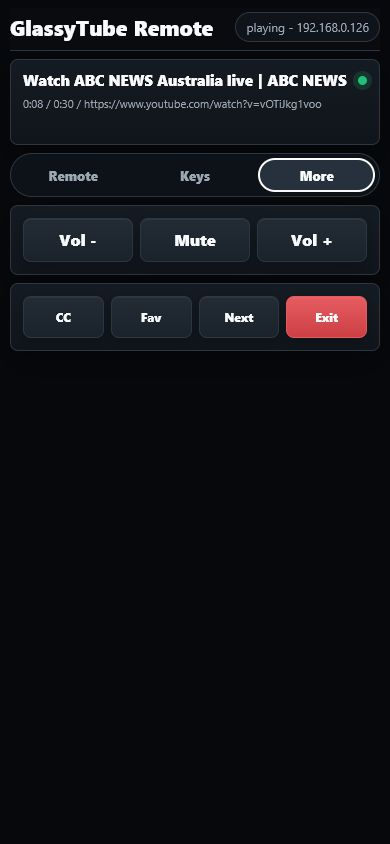
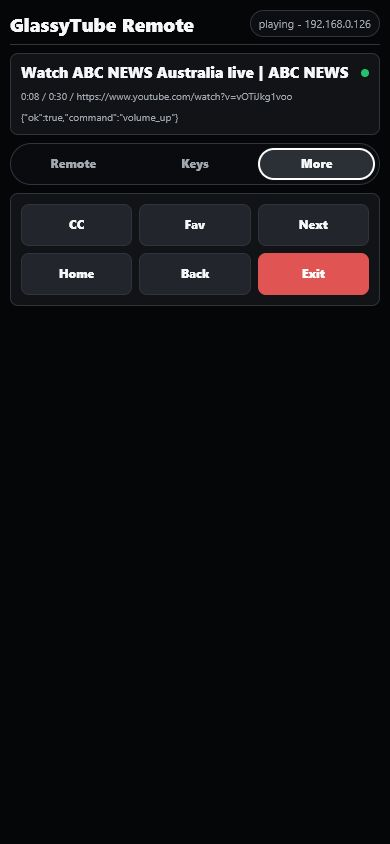
Polish GlassyTube remote controls

Changed region(s): [[0.0308, 0.0, 0.9846, 0.4313]]

diff --git a/remoteagent/src/main/java/com/glass/remoteagent/AgentServer.java b/remoteagent/src/main/java/com/glass/remoteagent/AgentServer.java
@@ -182,7 +182,19 @@ public class AgentServer extends NanoHTTPD {
             glassTube = forceInactiveIdle(glassTube);
         }
         return "{\"ok\":true,\"app\":\"GlassyTube Remote\",\"ip\":\"" + escapeJson(NetworkUtils.getWifiIp(context))
-                + "\",\"glasstube\":" + glassTube + "}";
+                + "\",\"volume\":" + volumeJson() + ",\"glasstube\":" + glassTube + "}";
+    }
+
+    private String volumeJson() {
+        AudioManager audioManager = (AudioManager) context.getSystemService(Context.AUDIO_SERVICE);
+        if (audioManager == null) {
+            return "{\"level\":0,\"max\":0,\"percent\":0,\"muted\":false}";
+        }
+        int level = audioManager.getStreamVolume(AudioManager.STREAM_MUSIC);
+        int max = audioManager.getStreamMaxVolume(AudioManager.STREAM_MUSIC);
+        int percent = max <= 0 ? 0 : Math.round((level * 100f) / max);
+        return "{\"level\":" + level + ",\"max\":" + max + ",\"percent\":" + percent
+                + ",\"muted\":" + (level == 0) + "}";
     }
 
     private String readGlassTubeLog() {
@@ -574,47 +586,61 @@ public class AgentServer extends NanoHTTPD {
     private String remotePage() {
         String token = RemoteSecurity.getToken(context);
         return "<!doctype html><html><head><meta name='viewport' content='width=device-width,initial-scale=1,viewport-fit=cover'>"
-                + "<title>GlassyTube Remote</title><style>"
-                + ":root{color-scheme:dark;--bg:#06080b;--panel:#11161c;--panel2:#1b222b;--line:#2d3742;--line2:#42505f;--text:#f8fafc;--muted:#9da8b5;--blue:#2f8cff;--green:#1fc178;--red:#de4d52;--shadow:0 12px 34px rgba(0,0,0,.34)}"
-                + "*{box-sizing:border-box;min-width:0}html,body{width:100%;height:100%;overflow:hidden}body{margin:0;background:#06080b;color:var(--text);font-family:-apple-system,BlinkMacSystemFont,Segoe UI,sans-serif;-webkit-tap-highlight-color:transparent}"
-                + "main{width:min(100%,460px);height:calc(var(--vh,1vh)*100);margin:0 auto;padding:max(8px,env(safe-area-inset-top)) max(10px,env(safe-area-inset-right)) max(10px,env(safe-area-inset-bottom)) max(10px,env(safe-area-inset-left));display:flex;flex-direction:column;gap:8px;overflow:hidden}.top{z-index:4;background:rgba(9,11,15,.96);backdrop-filter:blur(14px);padding:4px 0 8px;border-bottom:1px solid var(--line);flex:0 0 auto}"
-                + ".bar{display:flex;align-items:center;justify-content:space-between;gap:10px}.brand{font-size:21px;font-weight:850;letter-spacing:0}.pill{border:1px solid var(--line);background:#0f141a;color:var(--muted);border-radius:999px;padding:6px 10px;font-size:12px;white-space:nowrap;max-width:48%;overflow:hidden;text-overflow:ellipsis}"
-                + ".panel{background:linear-gradient(180deg,#151b22,#10151b);border:1px solid var(--line);border-radius:8px;padding:clamp(8px,1.55vh,12px);box-shadow:var(--shadow);flex:0 0 auto}.sectionTitle{display:none}.muted{color:var(--muted);font-size:13px}.toast{color:var(--muted);font-size:11px;min-height:14px;overflow:hidden;text-overflow:ellipsis;white-space:nowrap}"
-                + ".wake{display:none;text-align:left;padding:18px;margin-top:8px}.wakeTitle{font-size:clamp(22px,7vw,28px);font-weight:850;margin-bottom:8px}.wakeText{color:#dce4ee;line-height:1.35;margin-bottom:16px}.hibernating .wake{display:block}.hibernating .activeOnly{display:none!important}.hibernating main{justify-content:flex-start}"
-                + ".now{display:grid;grid-template-columns:1fr auto;gap:7px;align-items:center;min-height:70px}.title{font-size:clamp(14px,3.8vw,16px);font-weight:850;line-height:1.18;overflow:hidden;display:-webkit-box;-webkit-line-clamp:2;-webkit-box-orient:vertical}.meta{grid-column:1/-1;color:var(--muted);font-size:11px;white-space:nowrap;overflow:hidden;text-overflow:ellipsis}.liveDot{width:9px;height:9px;background:var(--green);border-radius:50%;box-shadow:0 0 0 5px rgba(31,193,120,.16)}"
-                + "button,textarea{width:100%;font:inherit;border-radius:8px;border:1px solid var(--line)}button{min-height:0;background:linear-gradient(180deg,#232b34,#1a222b);color:var(--text);font-weight:850;line-height:1.05;padding:6px;white-space:normal;box-shadow:inset 0 1px 0 rgba(255,255,255,.05),0 5px 14px rgba(0,0,0,.2)}button:active{transform:scale(.985);filter:brightness(1.16)}.primary{background:linear-gradient(180deg,#3d96ff,#237be5);border-color:#4096ff}.good{background:linear-gradient(180deg,#28c982,#18a967);border-color:#2bc77f}.danger{background:linear-gradient(180deg,#e75c61,#cb3f45);border-color:#e35a5f}"
-                + ".tabs{display:grid;grid-template-columns:repeat(3,1fr);gap:5px;background:#0d1218;border:1px solid var(--line);border-radius:999px;padding:4px;flex:0 0 auto}.tabs button{height:34px;font-size:13px;border-radius:999px;background:transparent;border-color:transparent;box-shadow:none;color:var(--muted)}.modeRemote .tabRemote,.modeKeyboard .tabKeyboard,.modeMore .tabMore{background:#26313d;border-color:#3b4653;color:var(--text);box-shadow:inset 0 1px 0 rgba(255,255,255,.06)}.screen{display:none;flex:1 1 auto;min-height:0}.modeRemote .remoteScreen,.modeKeyboard .keyboardScreen,.modeMore .moreScreen{display:flex;flex-direction:column;gap:8px}"
-                + ".remotePanel{flex:1 1 auto;display:flex;flex-direction:column;gap:8px;align-items:stretch}.remotePad{position:relative;display:grid;grid-template-columns:repeat(3,1fr);grid-template-rows:repeat(3,1fr);aspect-ratio:1/1;width:min(100%,52vh);max-height:calc(var(--vh,1vh)*48);align-self:center;background:radial-gradient(circle at 50% 42%,#26313d,#111820 68%);border:1px solid #34414e;border-radius:50%;padding:6.5%;box-shadow:inset 0 2px 24px rgba(255,255,255,.035),inset 0 -14px 34px rgba(0,0,0,.38),0 18px 42px rgba(0,0,0,.42)}.remotePad button{height:100%;border-radius:999px;background:transparent;border-color:transparent;box-shadow:none;font-size:clamp(22px,7vw,34px)}.remotePad button:active{background:rgba(255,255,255,.08)}.remotePad .blank{visibility:hidden}.select{background:linear-gradient(180deg,#394656,#26313d)!important;border:1px solid #586879!important;box-shadow:inset 0 1px 0 rgba(255,255,255,.08),0 8px 22px rgba(0,0,0,.28)!important;font-size:clamp(13px,3.5vw,15px)!important}.commandRow{display:grid;grid-template-columns:repeat(4,1fr);gap:7px}.commandRow button{height:40px;font-size:12px;border-radius:999px}.timeline{background:#0d1218;border:1px solid var(--line);border-radius:999px;padding:7px 10px 8px;display:grid;grid-template-columns:auto 1fr auto;gap:9px;align-items:center}.timeLabel{font-size:11px;color:var(--muted);font-weight:800;min-width:34px;text-align:center}.scrub{appearance:none;-webkit-appearance:none;width:100%;height:22px;background:transparent;outline:none}.scrub::-webkit-slider-runnable-track{height:5px;border-radius:999px;background:linear-gradient(90deg,var(--green) var(--scrub,0%),#2d3742 var(--scrub,0%))}.scrub::-webkit-slider-thumb{-webkit-appearance:none;width:24px;height:24px;border-radius:50%;background:#f8fafc;border:3px solid var(--green);margin-top:-9px;box-shadow:0 4px 14px rgba(0,0,0,.38)}.scrub:disabled{opacity:.35}.transport{display:grid;grid-template-columns:repeat(5,minmax(0,1fr));gap:7px;background:#0d1218;border:1px solid var(--line);border-radius:999px;padding:6px}.transport button{height:38px;font-size:12px;border-radius:999px;background:transparent;border-color:transparent;box-shadow:none}.transport .good{background:var(--green);border-color:var(--green);box-shadow:0 5px 14px rgba(31,193,120,.22)}.quick{display:grid;grid-template-columns:repeat(4,minmax(0,1fr));gap:7px}.quick button{height:42px;font-size:12px}.vol{display:grid;grid-template-columns:repeat(3,minmax(0,1fr));gap:7px}.vol button{height:44px}"
-                + "textarea{background:#090d12;color:var(--text);padding:14px;font-size:17px;line-height:1.28;resize:none;border-color:#364250;outline:none;box-shadow:inset 0 1px 0 rgba(255,255,255,.03)}textarea:focus{border-color:#4e9cff;box-shadow:0 0 0 3px rgba(47,140,255,.18),inset 0 1px 0 rgba(255,255,255,.04)}.keyboardDeck{flex:1 1 auto;display:flex;flex-direction:column;gap:10px;min-height:0}.inputSurface{background:linear-gradient(180deg,#141b23,#0e1319);border:1px solid var(--line);border-radius:8px;padding:10px;box-shadow:var(--shadow)}.queryBox{height:clamp(178px,35vh,270px);border-radius:18px}.inputHelp{color:var(--muted);font-size:12px;line-height:1.28;margin:8px 4px 10px}.keyboardActions{display:grid;grid-template-columns:repeat(2,minmax(0,1fr));gap:8px}.keyboardActions button{height:44px;border-radius:999px}.keyboardActions .wide{grid-column:1/-1}.inputLabel{display:flex;align-items:center;justify-content:space-between;color:var(--muted);font-size:12px;font-weight:750;margin:0 4px 7px}.mini{display:none}"
-                + "@media(max-height:720px){main{gap:6px}.top{padding-bottom:6px}.brand{font-size:18px}.pill{padding:5px 8px}.now{min-height:62px}.panel{padding:8px}.tabs button{height:34px}.transport button,.vol button{height:36px}.quick button{height:38px}.commandRow button{height:36px}.queryBox{height:32vh;min-height:150px}}@media(max-width:360px){main{padding-left:8px;padding-right:8px}.brand{font-size:18px}.pill{max-width:44%}}@media(min-width:760px){main{width:min(100%,900px)}}"
-                + "</style></head><body><main><section class='top'><div class='bar'><div class='brand'>GlassyTube Remote</div><div id='state' class='pill'>Connecting</div></div></section>"
+                + "<title>GlassyTube Remote</title><style>" + remoteCss() + "</style></head>"
+                + "<body><main>" + remoteMarkup() + "</main><script>" + remoteScript(token)
+                + "</script></body></html>";
+    }
+
+    private String remoteCss() {
+        return ":root{color-scheme:dark;--bg:#050607;--panel:#111316;--panel2:#181b20;--button:#22252b;--button2:#2b2f36;--line:#30343b;--text:#f6f7f8;--muted:#a2a8b0;--accent:#f5c542;--green:#25c26e;--red:#e05454}"
+                + "*{box-sizing:border-box;min-width:0}html,body{width:100%;height:100%;overflow:hidden}body{margin:0;background:var(--bg);color:var(--text);font-family:-apple-system,BlinkMacSystemFont,Segoe UI,sans-serif;-webkit-tap-highlight-color:transparent}"
+                + "main{width:min(100%,430px);height:calc(var(--vh,1vh)*100);margin:0 auto;padding:max(8px,env(safe-area-inset-top)) max(10px,env(safe-area-inset-right)) max(10px,env(safe-area-inset-bottom)) max(10px,env(safe-area-inset-left));display:flex;flex-direction:column;gap:8px;overflow:hidden}"
+                + ".top{flex:0 0 auto;border-bottom:1px solid var(--line);padding:2px 0 7px}.bar{display:flex;align-items:center;justify-content:space-between;gap:8px}.brand{font-size:19px;font-weight:800;letter-spacing:0}.pill{border:1px solid var(--line);background:#0c0e11;color:var(--muted);border-radius:999px;padding:5px 8px;font-size:11px;white-space:nowrap;max-width:48%;overflow:hidden;text-overflow:ellipsis}"
+                + ".panel{background:var(--panel);border:1px solid var(--line);border-radius:8px;padding:10px;flex:0 0 auto}.wake{display:none;text-align:left;padding:16px;margin-top:8px}.wakeTitle{font-size:clamp(22px,7vw,28px);font-weight:850;margin-bottom:8px}.wakeText{color:#d5dae0;line-height:1.34;margin-bottom:14px}.hibernating .wake{display:block}.hibernating .activeOnly{display:none!important}.hibernating main{justify-content:flex-start}.mini{display:none}"
+                + ".now{display:grid;grid-template-columns:1fr auto;gap:7px;align-items:center;min-height:62px}.title{font-size:15px;font-weight:800;line-height:1.18;overflow:hidden;display:-webkit-box;-webkit-line-clamp:2;-webkit-box-orient:vertical}.meta{grid-column:1/-1;color:var(--muted);font-size:10px;white-space:nowrap;overflow:hidden;text-overflow:ellipsis}.liveDot{width:8px;height:8px;background:var(--green);border-radius:50%}.toast{color:var(--muted);font-size:10px;min-height:12px;overflow:hidden;text-overflow:ellipsis;white-space:nowrap}"
+                + "button,textarea{width:100%;font:inherit;border-radius:8px;border:1px solid var(--line)}button{min-height:0;background:var(--button);color:var(--text);font-weight:800;line-height:1.05;padding:6px;white-space:normal;box-shadow:none}button:active{background:var(--button2);transform:scale(.985)}.primary{background:var(--accent);border-color:var(--accent);color:#141414}.good{background:var(--green);border-color:var(--green);color:#061208}.danger{background:var(--red);border-color:var(--red);color:#fff}"
+                + ".tabs{display:grid;grid-template-columns:repeat(3,1fr);gap:5px;background:#090b0e;border:1px solid var(--line);border-radius:999px;padding:4px;flex:0 0 auto}.tabs button{height:32px;font-size:12px;border-radius:999px;background:transparent;border-color:transparent;color:var(--muted)}.modeRemote .tabRemote,.modeKeyboard .tabKeyboard,.modeMore .tabMore{background:var(--button2);border-color:var(--line);color:var(--text)}"
+                + ".screen{display:none;flex:1 1 auto;min-height:0}.modeRemote .remoteScreen,.modeKeyboard .keyboardScreen,.modeMore .moreScreen{display:flex;flex-direction:column;gap:8px}.remotePanel{flex:1 1 auto;display:flex;flex-direction:column;gap:8px;align-items:stretch}.remotePad{position:relative;display:grid;grid-template-columns:repeat(3,1fr);grid-template-rows:repeat(3,1fr);aspect-ratio:1/1;width:min(100%,48vh);max-height:calc(var(--vh,1vh)*42);align-self:center;background:#15181d;border:1px solid var(--line);border-radius:50%;padding:7%}.remotePad button{height:100%;border-radius:999px;background:transparent;border-color:transparent;font-size:clamp(20px,7vw,31px)}.remotePad button:active{background:#252931}.remotePad .blank{visibility:hidden}.select{background:#2c3139!important;border:1px solid #454a53!important;font-size:clamp(12px,3.4vw,14px)!important}"
+                + ".commandRow{display:grid;grid-template-columns:repeat(4,1fr);gap:7px}.commandRow button{height:38px;font-size:12px;border-radius:999px}.timeline{background:#090b0e;border:1px solid var(--line);border-radius:8px;padding:8px 9px;display:grid;grid-template-columns:auto 1fr auto;gap:9px;align-items:center}.timeLabel{font-size:11px;color:var(--muted);font-weight:800;min-width:34px;text-align:center}.scrub{appearance:none;-webkit-appearance:none;width:100%;height:28px;background:transparent;outline:none}.scrub::-webkit-slider-runnable-track{height:4px;border-radius:999px;background:linear-gradient(90deg,var(--accent) var(--scrub,0%),#343941 var(--scrub,0%))}.scrub::-webkit-slider-thumb{-webkit-appearance:none;width:24px;height:24px;border-radius:50%;background:#f8f8f8;border:3px solid var(--accent);margin-top:-10px}.scrub:disabled{opacity:.35}"
+                + ".transport{display:grid;grid-template-columns:repeat(5,minmax(0,1fr));gap:6px;background:#090b0e;border:1px solid var(--line);border-radius:8px;padding:6px}.transport button{height:38px;font-size:12px;border-radius:8px;background:transparent;border-color:transparent}.transport .good{background:var(--accent);border-color:var(--accent);color:#141414}.volumeFront{display:grid;grid-template-columns:repeat(3,minmax(0,1fr));gap:7px;align-items:center;background:#090b0e;border:1px solid var(--line);border-radius:8px;padding:7px}.volumeFront button{height:38px;border-radius:8px}.volCenter{grid-column:1/-1;display:grid;grid-template-columns:1fr auto;gap:7px;align-items:center;color:var(--muted);font-size:11px}.volBar{grid-column:1/-1;height:4px;border-radius:999px;background:linear-gradient(90deg,var(--accent) var(--vol,0%),#343941 var(--vol,0%))}.quick{display:grid;grid-template-columns:repeat(3,minmax(0,1fr));gap:7px}.quick button{height:42px;font-size:12px}"
+                + "textarea{background:#080a0d;color:var(--text);padding:14px;font-size:17px;line-height:1.28;resize:none;border-color:#363b44;outline:none}textarea:focus{border-color:var(--accent)}.keyboardDeck{flex:1 1 auto;display:flex;flex-direction:column;gap:10px;min-height:0}.inputSurface{background:var(--panel);border:1px solid var(--line);border-radius:8px;padding:10px}.queryBox{height:clamp(178px,35vh,270px)}.inputHelp{color:var(--muted);font-size:12px;line-height:1.28;margin:8px 4px 10px}.keyboardActions{display:grid;grid-template-columns:repeat(2,minmax(0,1fr));gap:8px}.keyboardActions button{height:44px;border-radius:8px}.keyboardActions .wide{grid-column:1/-1}.inputLabel{display:flex;align-items:center;justify-content:space-between;color:var(--muted);font-size:12px;font-weight:750;margin:0 4px 7px}"
+                + "@media(max-height:720px){main{gap:6px}.brand{font-size:18px}.pill{padding:5px 8px}.now{min-height:56px}.panel{padding:8px}.tabs button{height:31px}.transport button,.volumeFront button,.quick button,.commandRow button{height:34px}.remotePad{max-height:calc(var(--vh,1vh)*38)}.queryBox{height:32vh;min-height:150px}}@media(max-width:360px){main{padding-left:8px;padding-right:8px}.brand{font-size:17px}.pill{max-width:44%}}";
+    }
+
+    private String remoteMarkup() {
+        return "<section class='top'><div class='bar'><div class='brand'>GlassyTube Remote</div><div id='state' class='pill'>Connecting</div></div></section>"
                 + "<section class='panel wake'><div class='wakeTitle'>GlassyTube is sleeping</div><div class='wakeText'>The full remote is hibernated to save Glass battery. Wake GlassyTube, then controls will appear here.</div><button class='primary' onclick='wakeGlassTube()'>Open GlassyTube</button><div class='mini'>Keep this page saved to your Home Screen for quick control.</div></section>"
-                + "<section class='panel now activeOnly'><div><div class='sectionTitle'>Now Playing</div><div id='title' class='title'>No video loaded</div></div><div class='liveDot'></div><div id='meta' class='meta'></div><div id='toast' class='toast'></div></section>"
+                + "<section class='panel now activeOnly'><div><div id='title' class='title'>No video loaded</div></div><div class='liveDot'></div><div id='meta' class='meta'></div><div id='toast' class='toast'></div></section>"
                 + "<nav class='tabs activeOnly'><button class='tabRemote' onclick=\"setMode('remote')\">Remote</button><button class='tabKeyboard' onclick=\"setMode('keyboard')\">Keys</button><button class='tabMore' onclick=\"setMode('more')\">More</button></nav>"
-                + "<section class='screen remoteScreen activeOnly'><div class='remotePanel'><div class='remotePad'><span class='blank'></span><button onclick=\"gt('up')\">&#9650;</button><span class='blank'></span><button onclick=\"gt('left')\">&#9664;</button><button class='select' onclick=\"gt('enter')\">Select</button><button onclick=\"gt('right')\">&#9654;</button><span class='blank'></span><button onclick=\"gt('down')\">&#9660;</button><span class='blank'></span></div><div class='commandRow'><button onclick=\"gt('back')\">Back</button><button onclick=\"gt('home')\">Home</button><button onclick=\"gt('menu')\">Menu</button><button onclick=\"setMode('keyboard')\">Keys</button></div></div><div class='timeline'><span id='posLabel' class='timeLabel'>0:00</span><input id='scrub' class='scrub' type='range' min='0' max='0' value='0' disabled><span id='durLabel' class='timeLabel'>--:--</span></div><div class='transport'><button onclick=\"gt('seek_back_60')\">-60</button><button onclick=\"gt('seek_back')\">-10</button><button class='good' onclick=\"gt('play_pause')\">Play</button><button onclick=\"gt('seek_forward')\">+10</button><button onclick=\"gt('seek_forward_60')\">+60</button></div></section>"
+                + "<section class='screen remoteScreen activeOnly'><div class='remotePanel'><div class='remotePad'><span class='blank'></span><button onclick=\"gt('up')\">&#9650;</button><span class='blank'></span><button onclick=\"gt('left')\">&#9664;</button><button class='select' onclick=\"gt('enter')\">Select</button><button onclick=\"gt('right')\">&#9654;</button><span class='blank'></span><button onclick=\"gt('down')\">&#9660;</button><span class='blank'></span></div><div class='commandRow'><button onclick=\"gt('back')\">Back</button><button onclick=\"gt('home')\">Home</button><button onclick=\"gt('menu')\">Menu</button><button onclick=\"setMode('keyboard')\">Keys</button></div></div><div class='timeline'><span id='posLabel' class='timeLabel'>0:00</span><input id='scrub' class='scrub' type='range' min='0' max='0' value='0' disabled><span id='durLabel' class='timeLabel'>--:--</span></div><div class='transport'><button onclick=\"seekCmd('seek_back_60')\">-60</button><button onclick=\"seekCmd('seek_back')\">-10</button><button id='playBtn' class='good' onclick='togglePlayPause()'>Play</button><button onclick=\"seekCmd('seek_forward')\">+10</button><button onclick=\"seekCmd('seek_forward_60')\">+60</button></div><div class='volumeFront'><button onclick=\"volumeCmd('volume_down')\">Vol -</button><button onclick=\"volumeCmd('mute')\">Mute</button><button onclick=\"volumeCmd('volume_up')\">Vol +</button><div class='volCenter'><span>Volume</span><span id='volLabel'>--%</span><div id='volBar' class='volBar'></div></div></div></section>"
                 + "<section class='screen keyboardScreen activeOnly'><div class='keyboardDeck'><div class='inputSurface'><div class='inputLabel'><span>Smart input</span><span>URL / search / text</span></div><textarea id='query' class='queryBox' placeholder='Paste a YouTube link, search YouTube, or type text for GlassyTube'></textarea><div class='inputHelp'>Search YouTube starts a GlassyTube search. Send Text only types into the currently focused field.</div><div class='keyboardActions'><button class='primary' onclick='sendQuery()'>Open / Search</button><button onclick='sendTextOnly()'>Send Text</button><button onclick='queueQuery()'>Queue Link</button><button onclick='speakInto(\"query\")'>Speak</button><button class='wide' onclick=\"gt('back')\">Back</button></div></div></div></section>"
-                + "<section class='screen moreScreen activeOnly'><div class='panel'><div class='sectionTitle'>Volume</div><div class='vol'><button onclick=\"gt('volume_down')\">Vol -</button><button onclick=\"gt('mute')\">Mute</button><button onclick=\"gt('volume_up')\">Vol +</button></div></div><div class='panel'><div class='sectionTitle'>More</div><div class='quick'><button onclick=\"gt('captions')\">CC</button><button onclick=\"gt('favorite')\">Fav</button><button onclick=\"gt('next')\">Next</button><button class='danger' onclick=\"gt('exit')\">Exit</button></div></div></section>"
-                + "</main><script>const token='" + escapeJs(token) + "';const qs=id=>document.getElementById(id);let last='',scrubbing=false,lastDuration=0,basePosition=0,baseAt=0,playerState='idle';"
+                + "<section class='screen moreScreen activeOnly'><div class='panel'><div class='quick'><button onclick=\"gt('captions')\">CC</button><button onclick=\"gt('favorite')\">Fav</button><button onclick=\"gt('next')\">Next</button><button onclick=\"gt('home')\">Home</button><button onclick=\"gt('back')\">Back</button><button class='danger' onclick=\"gt('exit')\">Exit</button></div></div></section>";
+    }
+
+    private String remoteScript(String token) {
+        return "const token='" + escapeJs(token) + "';const qs=id=>document.getElementById(id);let last='',scrubbing=false,pendingSeekUntil=0,pendingControlUntil=0,lastStatusTimer=0;let play={state:'idle',duration:0,basePos:0,baseAt:Date.now()};"
                 + "function fitViewport(){document.documentElement.style.setProperty('--vh',((window.visualViewport?visualViewport.height:innerHeight)*.01)+'px')}fitViewport();addEventListener('resize',fitViewport);if(window.visualViewport)visualViewport.addEventListener('resize',fitViewport);"
-                + "function setToast(t){const el=qs('toast');if(el)el.textContent=t||''}"
-                + "async function post(path,body){const sep=path.indexOf('?')>=0?'&':'?';try{const r=await fetch(path+sep+'token='+encodeURIComponent(token),{method:'POST',body:body||''});last=await r.text();setToast(last);return last}catch(e){setToast('Connection failed');}}"
+                + "function clamp(v,min,max){return Math.max(min,Math.min(max,v))}function setToast(t){const el=qs('toast');if(el)el.textContent=t||''}"
+                + "async function post(path,body){const sep=path.indexOf('?')>=0?'&':'?';try{const r=await fetch(path+sep+'token='+encodeURIComponent(token),{method:'POST',body:body||''});last=await r.text();setToast(last);return last}catch(e){setToast('Connection failed');return''}}"
                 + "function setMode(m){document.body.classList.remove('modeRemote','modeKeyboard','modeMore');document.body.classList.add(m==='keyboard'?'modeKeyboard':m==='more'?'modeMore':'modeRemote');if(m==='keyboard')setTimeout(()=>qs('query').focus(),80)}setMode('remote');"
-                + "async function key(k){await post('/system/key?key='+encodeURIComponent(k))}async function gt(c){await post('/glasstube/control?cmd='+encodeURIComponent(c))}"
-                + "function renderScrub(pos,dur){const s=qs('scrub'),pl=qs('posLabel'),dl=qs('durLabel');if(!s)return;const ok=dur>0;s.disabled=!ok;s.max=ok?dur:0;s.value=ok?Math.max(0,Math.min(pos||0,dur)):0;const pct=ok?((s.value/dur)*100):0;s.style.setProperty('--scrub',pct+'%');pl.textContent=fmt(ok?s.value:0)||'0:00';dl.textContent=ok?fmt(dur):'--:--'}"
-                + "function updateScrub(pos,dur,state){const nextState=state||'idle';lastDuration=dur||0;let nextPos=pos||0;if(nextState==='playing'&&playerState==='playing'&&lastDuration>0&&!scrubbing){const projected=Math.min(lastDuration,basePosition+(Date.now()-baseAt));if(nextPos<projected-750)nextPos=projected}basePosition=nextPos;baseAt=Date.now();playerState=nextState;if(!scrubbing)renderScrub(basePosition,lastDuration)}"
-                + "function tickScrub(){if(scrubbing||playerState!=='playing'||lastDuration<=0)return;renderScrub(Math.min(lastDuration,basePosition+(Date.now()-baseAt)),lastDuration)}setInterval(tickScrub,500);"
-                + "function bindScrub(){const s=qs('scrub');if(!s)return;const show=()=>{const dur=Number(s.max)||0,val=Number(s.value)||0;s.style.setProperty('--scrub',(dur?val/dur*100:0)+'%');qs('posLabel').textContent=fmt(val)||'0:00'};s.addEventListener('input',()=>{scrubbing=true;show()});s.addEventListener('change',async()=>{const v=Math.round(Number(s.value)||0);scrubbing=false;if(lastDuration>0)await gt('seek_to:'+v);show()})}bindScrub();"
+                + "async function gt(c){return post('/glasstube/control?cmd='+encodeURIComponent(c))}function normState(s){return s==='ready'?'paused':(s||'idle')}function isPlaying(){return play.state==='playing'}function projected(){if(play.state!=='playing'||play.duration<=0)return play.basePos;return clamp(play.basePos+(Date.now()-play.baseAt),0,play.duration)}"
+                + "function fmt(ms){if(!ms)return'0:00';const s=Math.floor(ms/1000),m=Math.floor(s/60),r=s%60;return m+':'+String(r).padStart(2,'0')}"
+                + "function setPlayButton(state){const b=qs('playBtn');if(!b)return;const playing=state==='playing';b.textContent=playing?'Pause':'Play';b.classList.toggle('good',!playing);b.classList.toggle('primary',playing)}"
+                + "function renderScrub(pos,dur){const s=qs('scrub'),pl=qs('posLabel'),dl=qs('durLabel');if(!s)return;const ok=dur>0;s.disabled=!ok;s.max=ok?dur:0;const safe=ok?clamp(pos||0,0,dur):0;s.value=safe;const pct=ok?((safe/dur)*100):0;s.style.setProperty('--scrub',pct+'%');pl.textContent=fmt(safe);dl.textContent=ok?fmt(dur):'--:--'}"
+                + "function updateStatusModel(p){const now=Date.now();let state=normState(p.state);const dur=Number(p.durationMs)||0;let pos=Number(p.positionMs)||0;if(pendingSeekUntil>now||pendingControlUntil>now){pos=projected();state=play.state}else if(state==='playing'&&play.state==='playing'&&dur>0&&!scrubbing){const proj=projected();if(Math.abs(pos-proj)<2500||pos<proj)pos=proj}else if((state==='paused'||state==='idle')&&play.duration>0&&dur>0&&!scrubbing){const prev=projected();if(pos<prev&&Math.abs(pos-prev)<6000)pos=prev}play={state:state,duration:dur,basePos:dur>0?clamp(pos,0,dur):0,baseAt:now};setPlayButton(state);if(!scrubbing)renderScrub(play.basePos,play.duration)}"
+                + "function tickScrub(){if(scrubbing)return;if(play.state==='playing'&&play.duration>0)renderScrub(projected(),play.duration)}setInterval(tickScrub,250);"
+                + "function bindScrub(){const s=qs('scrub');if(!s)return;const show=()=>{const dur=Number(s.max)||0,val=Number(s.value)||0;s.style.setProperty('--scrub',(dur?val/dur*100:0)+'%');qs('posLabel').textContent=fmt(val)};s.addEventListener('input',()=>{scrubbing=true;show()});s.addEventListener('change',async()=>{const v=Math.round(Number(s.value)||0);scrubbing=false;play.basePos=v;play.baseAt=Date.now();pendingSeekUntil=Date.now()+2500;renderScrub(v,play.duration);if(play.duration>0)await gt('seek_to:'+v);setTimeout(status,500)});['pointerup','touchend','mouseup'].forEach(e=>s.addEventListener(e,()=>{if(scrubbing)setTimeout(()=>{scrubbing=false},180)}))}bindScrub();"
+                + "async function togglePlayPause(){const pos=projected();play.basePos=pos;play.baseAt=Date.now();play.state=isPlaying()?'paused':'playing';pendingControlUntil=Date.now()+2500;setPlayButton(play.state);renderScrub(pos,play.duration);await gt('play_pause');setTimeout(status,450)}"
+                + "async function seekCmd(c){const delta=c==='seek_back_60'?-60000:c==='seek_back'?-10000:c==='seek_forward'?10000:60000;if(play.duration>0){play.basePos=clamp(projected()+delta,0,play.duration);play.baseAt=Date.now();pendingSeekUntil=Date.now()+1800;renderScrub(play.basePos,play.duration)}await gt(c);setTimeout(status,500)}"
+                + "function renderVolume(v){const pct=v&&typeof v.percent==='number'?v.percent:0;qs('volLabel').textContent=pct+'%';qs('volBar').style.setProperty('--vol',pct+'%')}async function volumeCmd(c){await gt(c);setTimeout(status,350)}"
                 + "async function wakeGlassTube(){await post('/glasstube/wake');qs('state').textContent='Opening GlassyTube...';setTimeout(status,900)}"
                 + "async function sendQuery(){const v=qs('query').value.trim();if(!v)return;await post(v.startsWith('http')||v.startsWith('vnd.youtube:')?'/glasstube/open':'/glasstube/search',v);qs('query').select()}"
                 + "async function queueQuery(){const v=qs('query').value.trim();if(!v)return;if(!(v.startsWith('http')||v.startsWith('vnd.youtube:'))){setToast('Queue needs a YouTube link');return}await post('/glasstube/queue',v);qs('query').select()}"
-                + "function focusSearch(){setMode('keyboard');qs('query').focus();qs('query').select();setToast('Keyboard ready')}"
                 + "async function sendTextOnly(){const v=qs('query').value.trim();if(!v)return;await post('/system/text',v);qs('query').select()}"
                 + "function speakInto(id){const R=window.SpeechRecognition||window.webkitSpeechRecognition;if(!R){setToast('Speech is not supported in this browser');return}const r=new R();r.interimResults=true;r.onresult=e=>{let t='';for(let i=0;i<e.results.length;i++)t+=e.results[i][0].transcript;qs(id).value=t};r.onend=()=>qs(id).focus();r.start()}"
-                + "function fmt(ms){if(!ms)return'';const s=Math.floor(ms/1000),m=Math.floor(s/60),r=s%60;return m+':'+String(r).padStart(2,'0')}"
-                + "async function status(){let delay=3000;try{const r=await fetch('/status',{cache:'no-store'});const d=await r.json();const g=d.glasstube||{};const p=g.player||{};const live=['loading','buffering','playing','paused'].includes(p.state);const sleeping=g.installed&&g.active===false&&!live;document.body.classList.toggle('hibernating',sleeping);delay=sleeping?15000:(document.hidden?10000:3000);qs('state').textContent=(sleeping?'Sleeping':(p.state||'idle'))+' - '+(d.ip||'');qs('title').textContent=p.title||'No video loaded';qs('meta').textContent=[fmt(p.positionMs),fmt(p.durationMs),p.url].filter(Boolean).join(' / ');updateScrub(p.positionMs||0,p.durationMs||0,p.state||'idle')}catch(e){qs('state').textContent='Remote offline';delay=15000}setTimeout(status,delay)}"
-                + "status();setTimeout(()=>{if(!document.body.classList.contains('hibernating'))qs('query').focus()},300);</script></body></html>";
+                + "async function status(){clearTimeout(lastStatusTimer);let delay=1500;try{const r=await fetch('/status',{cache:'no-store'});const d=await r.json();const g=d.glasstube||{};const p=g.player||{};const state=normState(p.state);const live=['loading','buffering','playing','paused'].includes(state);const sleeping=g.installed&&g.active===false&&!live;document.body.classList.toggle('hibernating',sleeping);delay=sleeping?15000:(document.hidden?8000:1500);qs('state').textContent=(sleeping?'Sleeping':state)+' - '+(d.ip||'');qs('title').textContent=p.title||'No video loaded';qs('meta').textContent=[fmt(p.positionMs),fmt(p.durationMs),p.url].filter(Boolean).join(' / ');renderVolume(d.volume||{});updateStatusModel(p)}catch(e){qs('state').textContent='Remote offline';delay=15000}lastStatusTimer=setTimeout(status,delay)}"
+                + "document.addEventListener('visibilitychange',()=>{if(!document.hidden)status()});status();setTimeout(()=>{if(!document.body.classList.contains('hibernating'))qs('query').focus()},300);";
     }
-
     private String escapeHtml(String value) {
         return value.replace("&", "&amp;").replace("<", "&lt;").replace(">", "&gt;");
     }

diff --git a/app/src/main/java/com/catothecat/glasstube/VideoActivity.java b/app/src/main/java/com/catothecat/glasstube/VideoActivity.java
@@ -937,7 +937,7 @@ public class VideoActivity extends Activity {
             return "buffering";
         }
         if (state == ExoPlayer.STATE_READY) {
-            return player != null && player.isPlaying() ? "playing" : "ready";
+            return player != null && player.isPlaying() ? "playing" : "paused";
         }
         if (state == ExoPlayer.STATE_ENDED) {
             return "ended";
